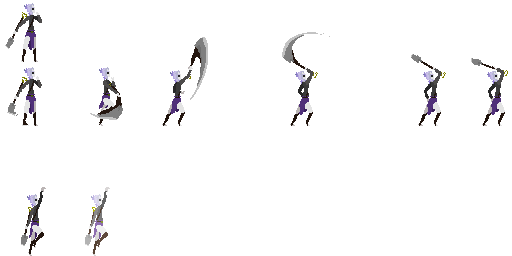
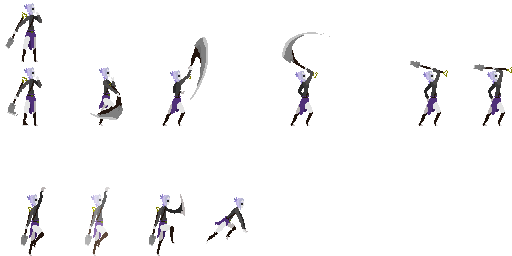
Updated pullup animation

diff --git a/Assets/Scripts/Attack/RykkeMasterHit.cs b/Assets/Scripts/Attack/RykkeMasterHit.cs
@@ -131,7 +131,7 @@ public class RykkeMasterHit : MasterHit
 
     public void pullup(){
         status.ApplyStatusEffect(PlayerStatusEffect.END_LAG,.5f);
-        rb.velocity = new Vector3(facing * -5f,45f,0);
+        rb.velocity = new Vector3(facing * -5f,43f,0);
     }
 
     public void pullupDodgeRoll()
